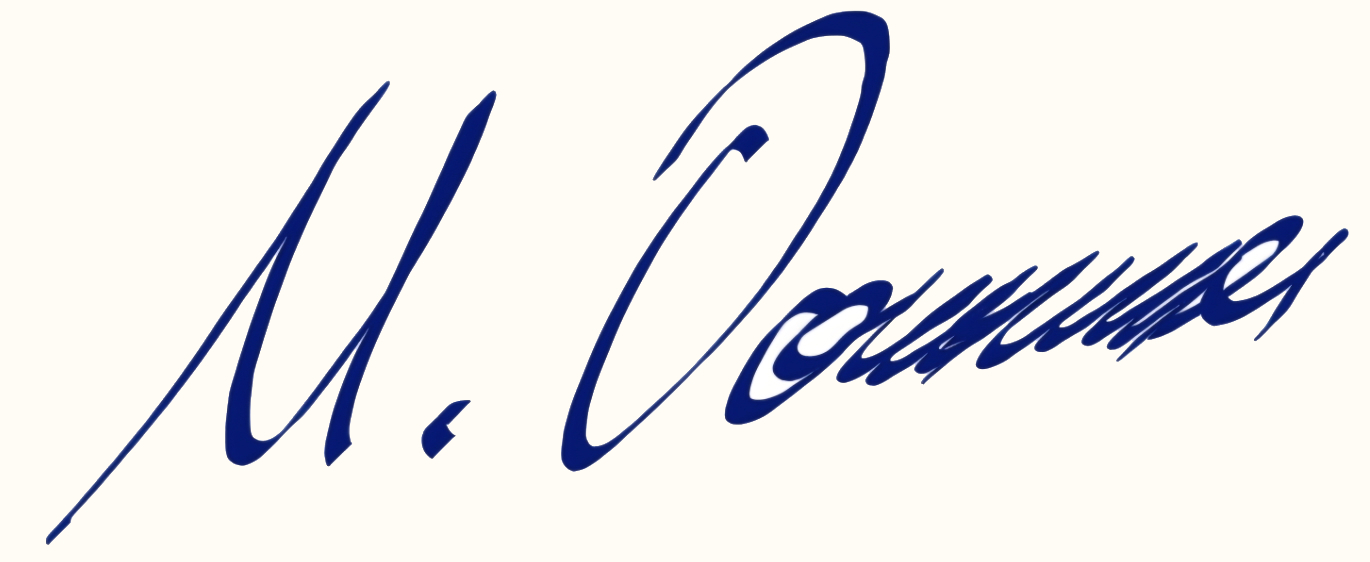
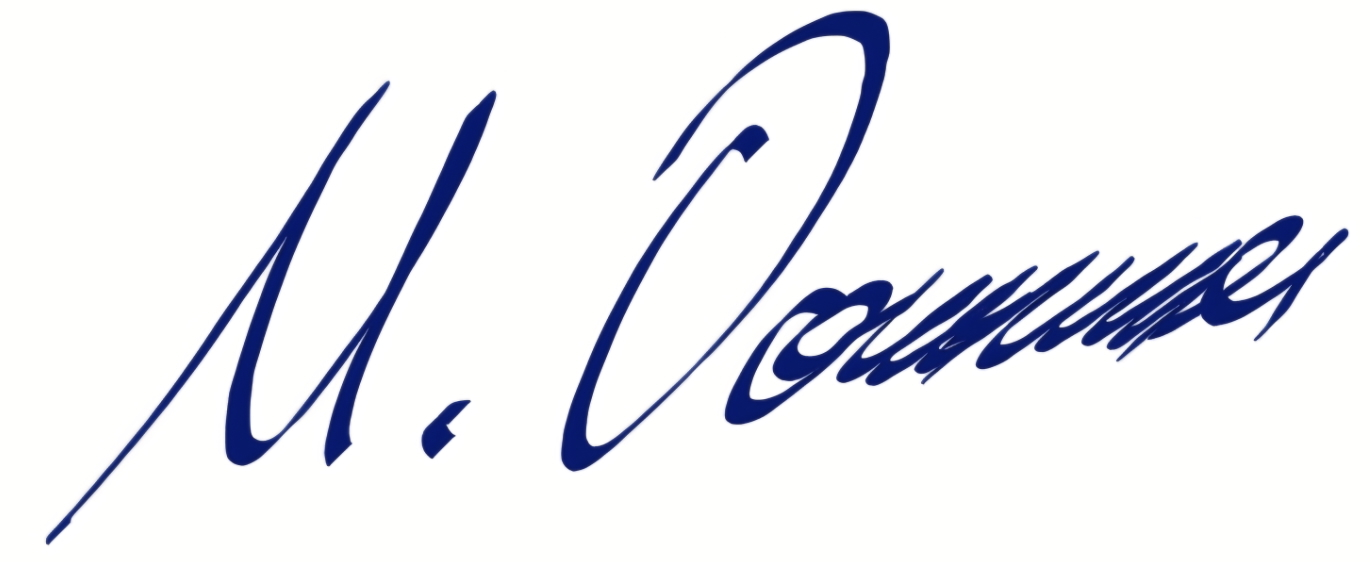
Add files via upload

diff --git a/netlify/functions/debriefing-pdf.js b/netlify/functions/debriefing-pdf.js
@@ -1,0 +1,173 @@
+// ============================================================================
+// Erzeugt den Debriefing-Bericht einer Übung als echtes, formatiertes PDF
+// (Einsatzdaten, chronologischer Verlauf, Fazit) und verschickt es als Anhang
+// an eine oder mehrere vom Übungsleiter/Admin angegebene E-Mail-Adressen.
+//
+// Zugriff nur mit gültigem Sitzungs-Token einer Rolle "uebungsleiter" oder
+// "admin" (dasselbe Token-Format wie in auth.js/certificate.js).
+//
+// Benötigt GMAIL_USER, GMAIL_APP_PASSWORD (E-Mail-Versand) sowie SESSION_SECRET
+// (Token-Prüfung). Siehe DEPLOYMENT.md.
+// ============================================================================
+
+const crypto = require("crypto");
+const nodemailer = require("nodemailer");
+const PDFDocument = require("pdfkit");
+
+const headers = {
+  "Access-Control-Allow-Origin": "*",
+  "Access-Control-Allow-Headers": "Content-Type",
+  "Access-Control-Allow-Methods": "POST, OPTIONS"
+};
+function resp(obj) { return { statusCode: 200, headers, body: JSON.stringify(obj) }; }
+
+function verifyToken(token, secret) {
+  if (!token || typeof token !== "string" || token.indexOf(".") === -1) return null;
+  const [body, sig] = token.split(".");
+  const expected = crypto.createHmac("sha256", secret).update(body).digest("base64url");
+  try {
+    if (!crypto.timingSafeEqual(Buffer.from(sig), Buffer.from(expected))) return null;
+  } catch (e) { return null; }
+  let payload;
+  try { payload = JSON.parse(Buffer.from(body, "base64url").toString()); } catch (e) { return null; }
+  if (payload.exp && Date.now() > payload.exp) return null;
+  return payload;
+}
+
+const EMAIL_CONFIGURED = !!(process.env.GMAIL_USER && process.env.GMAIL_APP_PASSWORD);
+let mailTransporter = null;
+function getTransporter() {
+  if (!EMAIL_CONFIGURED) return null;
+  if (!mailTransporter) {
+    mailTransporter = nodemailer.createTransport({
+      service: "gmail",
+      auth: { user: process.env.GMAIL_USER, pass: process.env.GMAIL_APP_PASSWORD }
+    });
+  }
+  return mailTransporter;
+}
+
+// Trennt eine frei eingegebene Liste von E-Mail-Adressen (Komma, Semikolon,
+// Zeilenumbruch oder Leerzeichen getrennt) und behält nur plausibel aussehende.
+function parseEmailList(raw) {
+  return (raw || "")
+    .split(/[,;\s\n]+/)
+    .map(s => s.trim())
+    .filter(s => /^[^@\s]+@[^@\s]+\.[^@\s]+$/.test(s));
+}
+
+function buildDebriefingPdf(data) {
+  return new Promise((resolve, reject) => {
+    try {
+      const doc = new PDFDocument({ size: "A4", layout: "portrait", margin: 50 });
+      const chunks = [];
+      doc.on("data", c => chunks.push(c));
+      doc.on("end", () => resolve(Buffer.concat(chunks)));
+      doc.on("error", reject);
+
+      const navy = "#123A63", muted = "#5C6B84";
+      const pageBottom = doc.page.height - 50;
+
+      function ensureSpace(needed) {
+        if (doc.y + needed > pageBottom) doc.addPage();
+      }
+      function heading(text) {
+        ensureSpace(30);
+        doc.moveDown(0.5).fillColor(navy).font("Helvetica-Bold").fontSize(15).text(text);
+        doc.moveTo(50, doc.y + 2).lineTo(doc.page.width - 50, doc.y + 2).strokeColor("#D9C27A").lineWidth(1).stroke();
+        doc.moveDown(0.5);
+      }
+      function kvRow(label, value) {
+        if (!value) return;
+        ensureSpace(18);
+        doc.fillColor(muted).font("Helvetica-Bold").fontSize(9).text(label, { continued: false });
+        doc.fillColor("#1B2A41").font("Helvetica").fontSize(11).text(String(value));
+        doc.moveDown(0.3);
+      }
+
+      doc.fillColor(navy).font("Helvetica-Bold").fontSize(22).text(`Debriefing: ${data.exName}`);
+      doc.fillColor(muted).font("Helvetica").fontSize(10)
+        .text(`Szenario: ${data.scenario || "-"}${data.meta ? " · " + data.meta : ""}`);
+      doc.text(`Status: ${data.status || "-"} · Exportiert: ${new Date().toLocaleString("de-DE")}`);
+      doc.moveDown(0.5);
+
+      if (data.briefingFields && data.briefingFields.length) {
+        heading("Einsatzdaten");
+        data.briefingFields.forEach(([k, v]) => kvRow(k, v));
+      }
+
+      heading("Chronologischer Verlauf");
+      if (!data.timeline || !data.timeline.length) {
+        doc.fillColor("#888").font("Helvetica-Oblique").fontSize(10).text("Keine Ereignisse erfasst");
+      } else {
+        const colTimeW = 130, colEventW = doc.page.width - 100 - colTimeW;
+        data.timeline.forEach(entry => {
+          ensureSpace(20);
+          const y = doc.y;
+          doc.fillColor(muted).font("Helvetica").fontSize(9).text(entry.time || "", 50, y, { width: colTimeW });
+          doc.fillColor("#1B2A41").font("Helvetica").fontSize(10).text(entry.text || "", 50 + colTimeW, y, { width: colEventW });
+          doc.moveDown(0.35);
+        });
+      }
+
+      heading("Fazit");
+      const s = data.stats || {};
+      kvRow("Gesamtzeit der Übung", s.gesamtzeitText);
+      kvRow("Ø Sichtungszeit pro Patient", s.avgDurationText);
+      kvRow("Gesichtete Patienten gesamt", s.totalGesichtet);
+      kvRow("Richtig gesichtet", s.correct);
+      kvRow("Falsch gesichtet", s.wrong);
+
+      doc.end();
+    } catch (e) { reject(e); }
+  });
+}
+
+exports.handler = async function (event) {
+  if (event.httpMethod === "OPTIONS") return { statusCode: 200, headers, body: "" };
+  if (event.httpMethod !== "POST") return resp({ ok: false, error: "Nur POST erlaubt" });
+
+  const SECRET = process.env.SESSION_SECRET;
+  if (!SECRET) {
+    return resp({ ok: false, error: "Server nicht konfiguriert: SESSION_SECRET fehlt in den Netlify-Umgebungsvariablen." });
+  }
+
+  let payload;
+  try { payload = JSON.parse(event.body || "{}"); } catch (e) { return resp({ ok: false, error: "Ungültiger Request-Body" }); }
+
+  const tokenData = verifyToken(payload.token, SECRET);
+  if (!tokenData || (tokenData.role !== "admin" && tokenData.role !== "uebungsleiter")) {
+    return resp({ ok: false, error: "Nicht angemeldet oder keine Berechtigung (nur Übungsleiter/Admin)." });
+  }
+
+  if (!payload.exName) return resp({ ok: false, error: "Fehlende Übungsdaten" });
+
+  const emails = parseEmailList(payload.emails);
+  if (!emails.length) {
+    return resp({ ok: false, error: "Bitte mindestens eine gültige E-Mail-Adresse angeben." });
+  }
+  if (!EMAIL_CONFIGURED) {
+    return resp({ ok: false, error: "Mailversand ist serverseitig nicht konfiguriert (GMAIL_USER/GMAIL_APP_PASSWORD fehlen)." });
+  }
+
+  let pdfBuffer;
+  try {
+    pdfBuffer = await buildDebriefingPdf(payload);
+  } catch (e) {
+    return resp({ ok: false, error: "Fehler bei der PDF-Erstellung: " + e.message });
+  }
+
+  try {
+    const t = getTransporter();
+    await t.sendMail({
+      from: `"mSTaRT Sichtungstrainer" <${process.env.GMAIL_USER}>`,
+      to: emails.join(","),
+      subject: `Debriefing-Bericht: ${payload.exName}`,
+      html: `<p>Anbei der Debriefing-Bericht zur Übung "${payload.exName}".</p>`,
+      attachments: [{ filename: `Debriefing_${payload.exName}.pdf`.replace(/[^a-zA-Z0-9_\-.]/g, "_"), content: pdfBuffer, contentType: "application/pdf" }]
+    });
+    return resp({ ok: true, sentTo: emails });
+  } catch (e) {
+    return resp({ ok: false, error: "Fehler beim E-Mail-Versand: " + e.message });
+  }
+};

diff --git a/index.html b/index.html
@@ -1,4 +1,3 @@
-
 <!DOCTYPE html>
 <html lang="de">
 <head>
